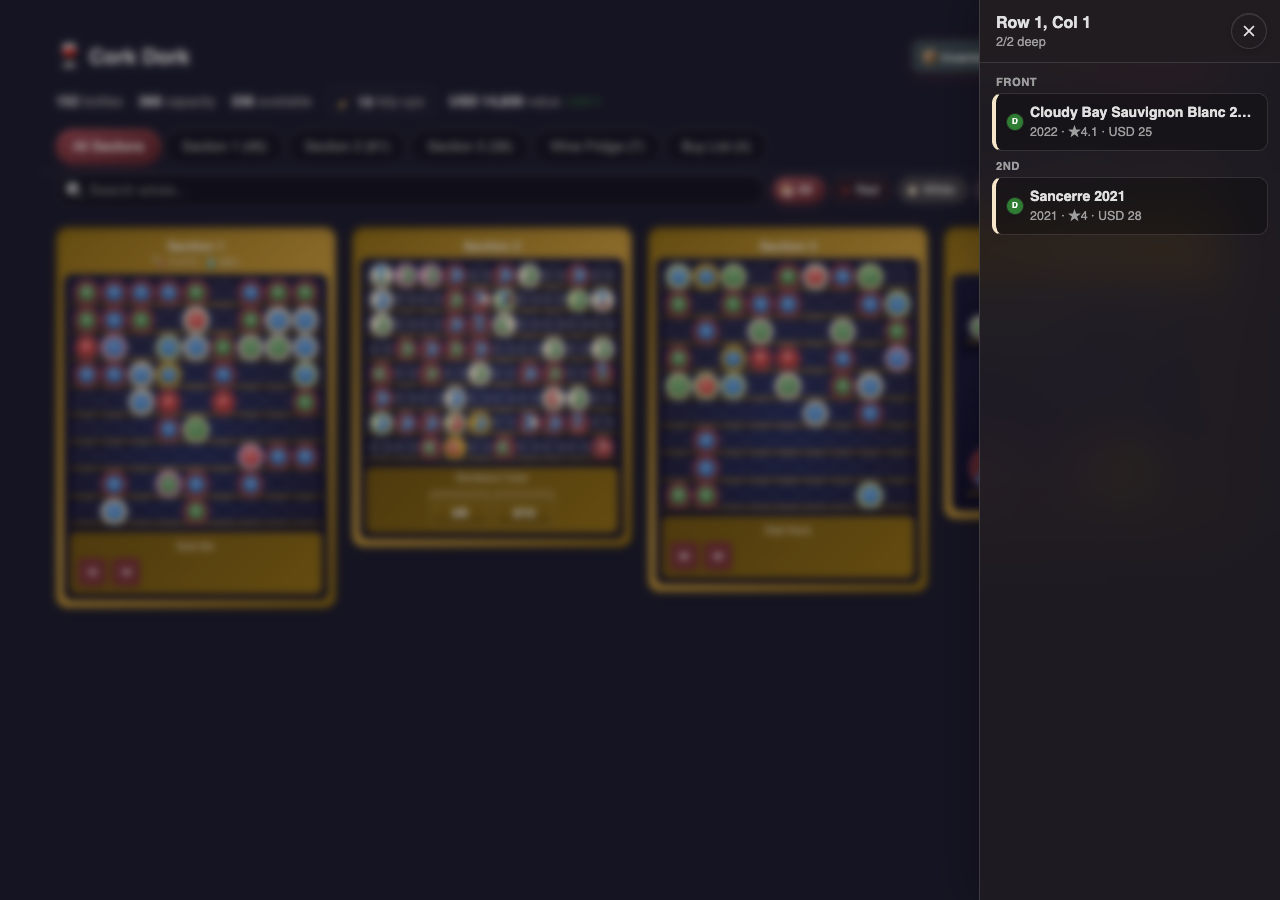
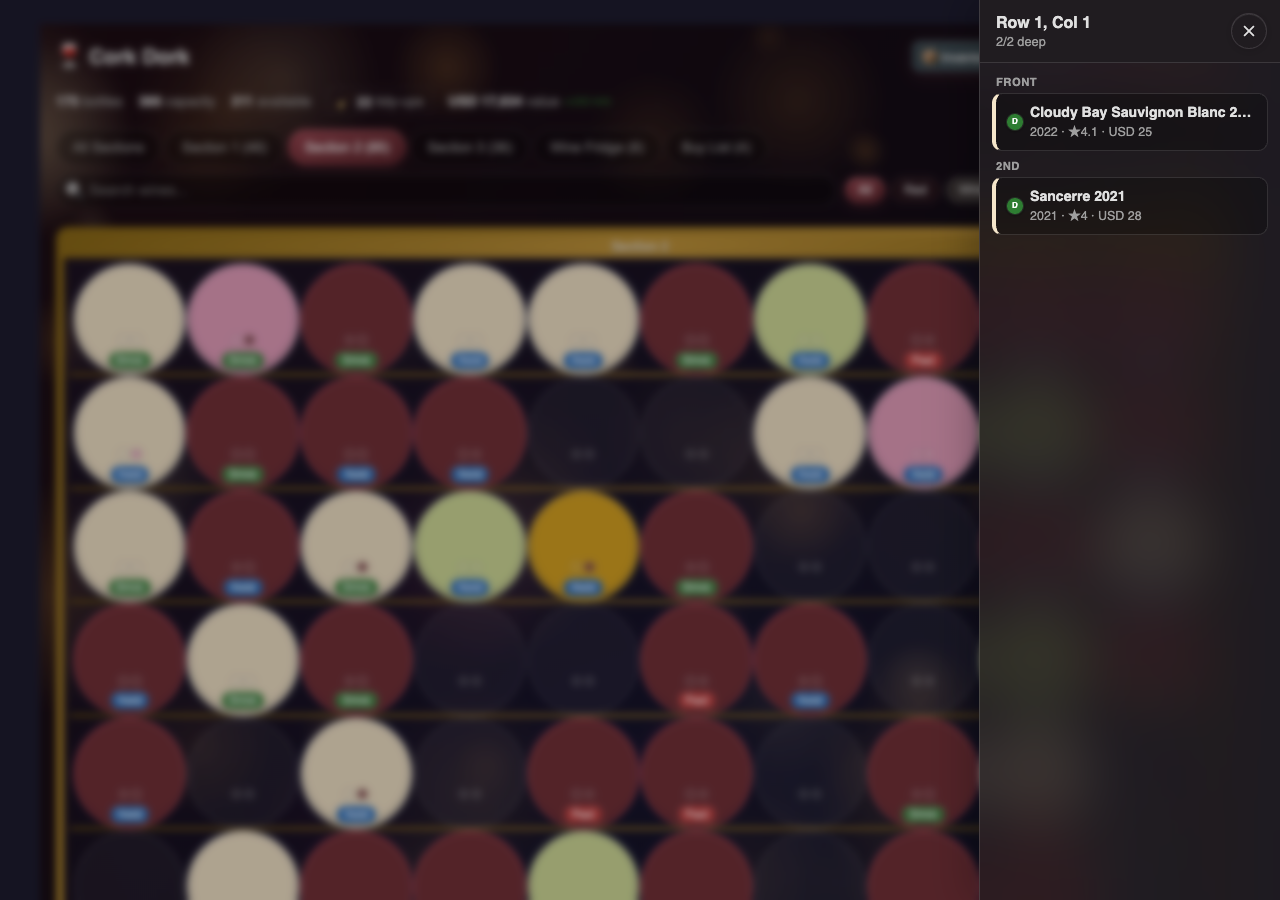
Update README for v2.25–v2.26, with fresh screenshots
Adds a v2.26 "What's new" section (custom card background and
translucent racks, next open slot, Delete permanently and History
delete, floating mode banner, wine-detail layout) and folds the same
changes into the feature sections. All screenshots retaken from the
preview page with a fuller demo cellar; two new ones show the floating
move banner and the Remove / Delete permanently dialog.

diff --git a/README.md b/README.md
@@ -14,6 +14,15 @@ A custom Home Assistant integration and Lovelace card for managing a wine collec
 
 ## What's new
 
+### v2.26
+- **Your own card background**: upload a photo in Settings and the card paints it behind every view. Racks are now translucent so the picture shows through. With no photo set, the card uses your theme's wallpaper, and it looks the same on *All Sections* as on a single rack.
+- **Next open slot**: in Add Wine, pick a rack and leave Row/Column blank. The bottle goes to the next free grid slot (empty slots first, then ones with depth left), and the dialog shows which slot that will be.
+- **Delete permanently**: *Remove* now has a two-tap *Delete permanently* option for mistakes and test entries. The bottle is deleted outright and doesn't go to History. You can also delete a single History entry for good.
+- **Floating mode banner**: while you copy, move or add to the Buy List, a pill stays at the bottom of the screen with a *Cancel* button, so you can always get out even after scrolling.
+- **Tidier wine detail**: *Edit* sits with *Vivino / AI* and *Label*, *Drink* has a card of its own, and the photo's camera and trash buttons only show while you're editing.
+- **Polish**: type chips drop the extra coloured dot, Inventory controls line up on the right, *Manage Racks* and *Settings* match the other tabs, and *Pairings* gets its own plum button.
+
+### v2.23 – v2.24
 - **Glass UI**: frosted, readable pop-ups that work under any theme, including "liquid glass" themes. Wine-type chips are colour-coded, every dialog has the same close button, and dialogs fit a phone screen without zoom-on-focus or sideways scrolling.
 - **Drink button & tasting log**: drink a bottle from its detail view, rate it, jot notes, and tick *Buy again* to put it on your Buy List. History shows it all, with a *Buy again only* filter.
 - **Pairings finder**: pick what you're eating (beef, seafood, cheese…) and see the bottles that go with it.
@@ -30,31 +39,39 @@ A custom Home Assistant integration and Lovelace card for managing a wine collec
 - **Rack styles**: each rack is a *Classic grid*, *Shelf (Front/Back)* (fridge shelves with independent front and back lane counts), *Staggered Shelf* (quinconce rows that nest into the gaps of the row below, as above a fridge's compressor bump), *Bulk Bin* or *Wine Box*. You can add a **secondary zone** of any style above or below the main one.
 - **Deep racks**: grids can be 1–6 bottles deep. Tap a deep cell to open a side panel listing every bottle front to back.
 - **Visual rack editor**: live preview, stepper controls and per-rack sensors, for racks up to 20×20.
-- **Drag & drop**: drag on desktop or long-press on mobile. Bottles swap if the target is occupied. **Move**, **Copy** (for multi-bottle purchases) and **Unassign** are in the detail view.
+- **Drag & drop**: drag on desktop or long-press on mobile. Bottles swap if the target is occupied. **Move**, **Copy** (for multi-bottle purchases) and **Unassign** are in the detail view. While you move or copy a bottle, a floating banner at the bottom of the screen shows what you're placing and lets you cancel.
+- **Card background**: by default the card uses your theme's wallpaper, softly blurred. You can upload your own photo in Settings. Racks are translucent, so the background shows through.
 - **Tidy-ups**: the arrangement report spots scattered bottles of the same wine, mixed-type zones and similar clutter, and suggests a more logical layout.
 - **Stats bar**: bottle count, capacity, free slots, cellar value and gain/loss.
 - **Responsive**: separate layouts for phone, tablet and desktop, with touch-sized targets on coarse pointers.
 
-![Depth side panel](docs/screenshot-depth-panel.png)
+![Moving a bottle, with the floating banner](docs/screenshot-move-mode.png)
 
-![Rack editor](docs/screenshot-rack-editor.png)
+<p align="center">
+  <img src="docs/screenshot-depth-panel.png" width="49%" alt="Depth side panel">
+  <img src="docs/screenshot-rack-editor.png" width="49%" alt="Rack editor with shelf and staggered zones">
+</p>
 
 ### Wine Detail
-- **Drink**: a large button that archives the bottle as drunk, with an optional personal rating, notes and *Buy again*.
-- **Look up**: a *Vivino / AI* button re-checks the wine (it goes straight to Vivino when no AI provider is configured). *Label* re-reads a label photo, and *Reset text* clears descriptions stuck in the wrong language.
+- **Drink**: a large button on its own card that archives the bottle as drunk, with an optional personal rating, notes and *Buy again*.
+- **Look up & edit**: *Vivino / AI* re-checks the wine (it goes straight to Vivino when no AI provider is configured), *Label* re-reads a label photo, and *Edit* opens every field. The photo's camera and trash buttons appear only while you're editing. *Reset text* clears descriptions stuck in the wrong language.
+- **Remove or delete**: *Remove* asks why (Drank, Gifted, Sold, Broken, Spoiled, Other) and keeps the bottle in History. *Delete permanently* (two taps) is for mistakes and test entries, and leaves nothing in History.
 - **Drink window & peak**: Drink now / Hold / Past peak is recomputed from the drink window automatically. No AI call is needed.
 - **Chambering advice**: when a rack has a temperature sensor and you've set a room sensor, the dialog tells you how long to take the bottle out before serving, or to chill it. The estimate uses Newton's law of cooling toward the middle of the wine's serving range. Advice only appears once the bottle has sat in its rack long enough to match the sensor (24 h by default). Temperatures show in °F when Home Assistant uses US units.
 - **Critic scores**: AI estimates from Wine Spectator, Robert Parker, Jeb Dunnuck and Antonio Galloni, next to the Vivino community rating and your own half-star rating.
 - **Duplicates stay in sync**: refreshing or analysing one bottle updates every other bottle with the same name, winery and vintage. Location, price, purchase date and notes stay per-bottle.
 
-![Wine detail](docs/screenshot-wine-detail.png)
+<p align="center">
+  <img src="docs/screenshot-wine-detail.png" width="49%" alt="Wine detail">
+  <img src="docs/screenshot-remove-dialog.png" width="49%" alt="Remove a bottle or delete it permanently">
+</p>
 
 ### Inventory, History & Pairings
 - **Inventory**: search across name, winery, region, country, grape, vintage, barcode, notes and description. Sort by any field, filter by type chip, country, grape, cabinet, food pairing, rating, price and vintage range.
 - **Presets**: one tap for *Drink this year*, *Past peak*, *Not rated*, *Missing data* or *Added recently*.
 - **Inventory review**: re-check the whole cellar against Vivino's catalogue or the AI. Banners count the bottles missing pairings or a drink window, with one-tap *Fill from Vivino* / *Analyze with AI* buttons.
 - **Pairings**: pick a food category (icons and bottle counts) and the inventory filters to wines that pair with it.
-- **History & tasting log**: removed bottles are kept with their reason (Drank, Gifted, Sold, Broken, Spoiled, Other), your rating, notes and a *Buy again* flag. Entries can be restored or annotated later.
+- **History & tasting log**: removed bottles are kept with their reason (Drank, Gifted, Sold, Broken, Spoiled, Other), your rating, notes and a *Buy again* flag. Entries can be restored, annotated later, or deleted for good.
 - **Backup & export**: CSV export and import, JSON download and upload, and timestamped server backups (`config/wine_cellar_backups/`) with a restore picker. Bottle photos are stored on disk (`config/wine_cellar_photos/`) and travel inside backups.
 
 ![Inventory](docs/screenshot-inventory.png)
@@ -69,6 +86,7 @@ A custom Home Assistant integration and Lovelace card for managing a wine collec
 - **Recognize label**: one photo gives the AI everything it needs for a full sommelier read (name, winery, vintage, type, region, grape, drink window, description, price estimate, critic scores). A Vivino lookup runs in the background to add a rating and photo.
 - **Scan wine list**: photograph a restaurant list or a receipt. Every wine is extracted with critic scores, retail price and markup, best-value picks are highlighted, and an *In cellar* badge marks wines you already own. Add any of them to the cellar or the Buy List.
 - **Search by name** or **enter manually**. New bottles are auto-enriched from Vivino in the background.
+- **Placement**: Add Wine suggests racks where other bottles from the same winery already sit. If you pick a rack and leave Row/Column blank, the bottle goes to the next open slot, and the dialog shows which one.
 
 ![Add wine](docs/screenshot-add-wine.png)
 
